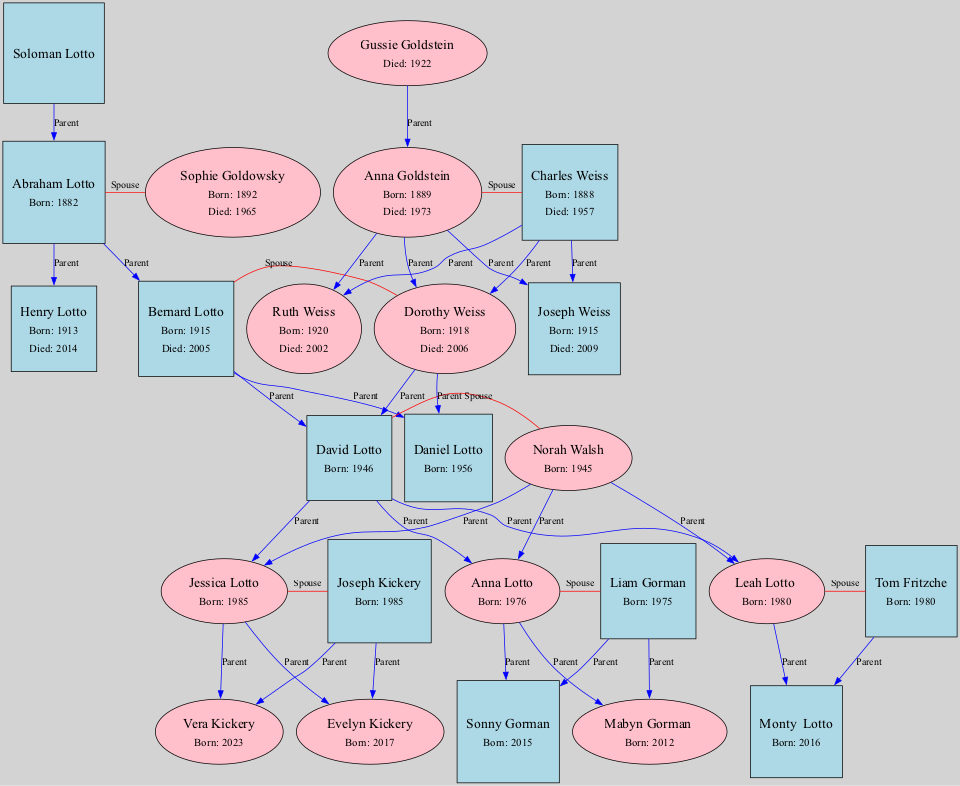
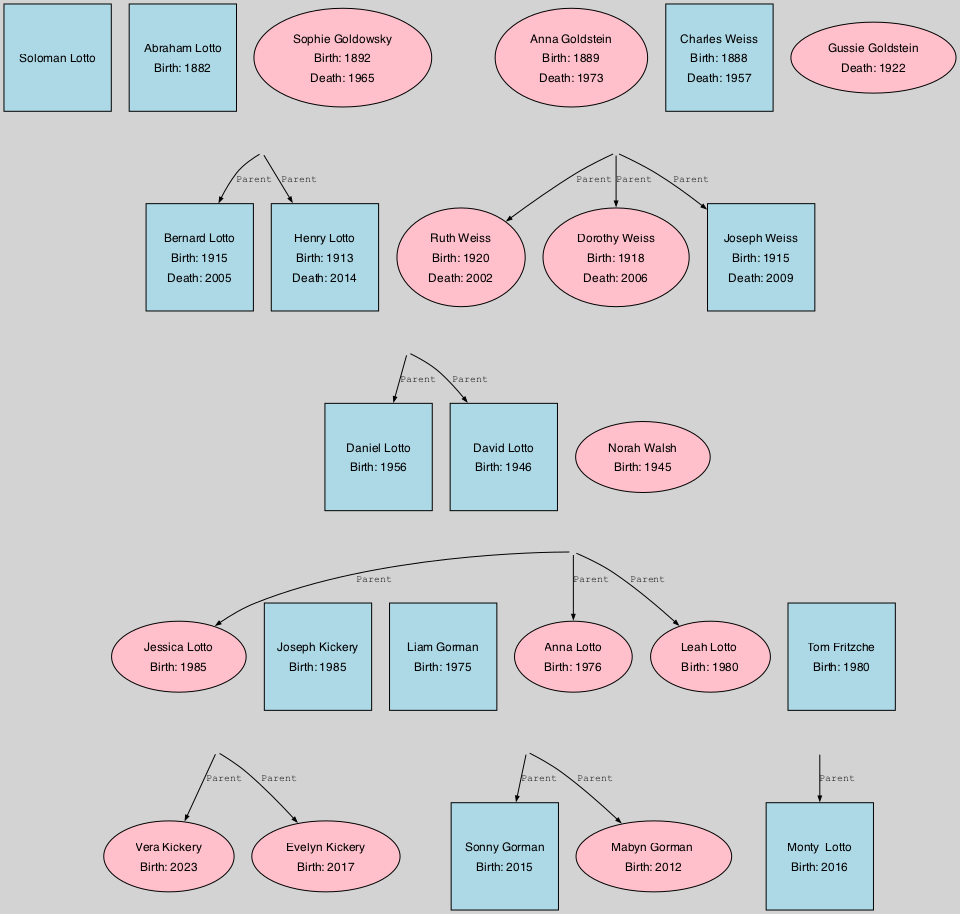
changes to graph output

diff --git a/Union Based Tree/union_tree.py b/Union Based Tree/union_tree.py
@@ -67,16 +67,16 @@ def read_data(filename):
 #         node_shape = 'square' if person.gender == 'M' else 'ellipse'  # Choose shape based on gender
 #         node_color = 'lightblue' if person.gender == 'M' else 'pink'  # Choose color based on gender
 
-#         # Create a label for the node using HTML-like labels
-#         # Adjust the font size for the name to be larger than the dates
-#         node_label = f'<<TABLE BORDER="0" CELLBORDER="0" CELLSPACING="3"><TR><TD><FONT POINT-SIZE="19">{person.name}</FONT></TD></TR>'
-#         if pd.notna(person.birth_date):  # Check if birth date is not null or NaN
-#             # Make the birth date font size smaller
-#             node_label += f'<TR><TD><FONT POINT-SIZE="15">Born: {int(person.birth_date)}</FONT></TD></TR>'  # Smaller font for birth date
-#         if pd.notna(person.death_date):  # Check if death date is not null or NaN
-#             # Make the death date font size smaller
-#             node_label += f'<TR><TD><FONT POINT-SIZE="15">Died: {int(person.death_date)}</FONT></TD></TR>'  # Smaller font for death date
-#         node_label += '</TABLE>>'
+        # # Create a label for the node using HTML-like labels
+        # # Adjust the font size for the name to be larger than the dates
+        # node_label = f'<<TABLE BORDER="0" CELLBORDER="0" CELLSPACING="3"><TR><TD><FONT POINT-SIZE="19">{person.name}</FONT></TD></TR>'
+        # if pd.notna(person.birth_date):  # Check if birth date is not null or NaN
+        #     # Make the birth date font size smaller
+        #     node_label += f'<TR><TD><FONT POINT-SIZE="15">Born: {int(person.birth_date)}</FONT></TD></TR>'  # Smaller font for birth date
+        # if pd.notna(person.death_date):  # Check if death date is not null or NaN
+        #     # Make the death date font size smaller
+        #     node_label += f'<TR><TD><FONT POINT-SIZE="15">Died: {int(person.death_date)}</FONT></TD></TR>'  # Smaller font for death date
+        # node_label += '</TABLE>>'
 
 #         # Create node for each person with custom attributes
 #         dot.node(str(person.id), label=node_label, shape=node_shape, style='filled', fillcolor=node_color)
@@ -93,41 +93,154 @@ def read_data(filename):
 #     dot.render(output_path, view=True)  # Render and save the graph
 #     print(f"Graph rendered and saved to {output_path}.gv and {output_path}.png")
 
+# def create_family_tree_graph(people):
+#     # Create the Graphviz graph
+#     dot = graphviz.Digraph('Family Tree', format='png')
+#     dot.attr(rankdir='TB', size='10,10', newrank='true', bgcolor='lightgray')  # Set attributes for the graph
+
+#     # Define nodes and relationships for each person
+#     for person in people.values():
+#         node_shape = 'square' if person.gender == 'M' else 'ellipse'  # Choose shape based on gender
+#         node_color = 'lightblue' if person.gender == 'M' else 'pink'  # Choose color based on gender
+
+#         # Create a label for the node using HTML-like labels
+#         node_label = f'<<TABLE BORDER="0" CELLBORDER="0" CELLSPACING="3"><TR><TD><FONT POINT-SIZE="19">{person.name}</FONT></TD></TR>'
+#         if pd.notna(person.birth_date):  # Check if birth date is not null or NaN
+#             node_label += f'<TR><TD><FONT POINT-SIZE="15">Born: {int(person.birth_date)}</FONT></TD></TR>'
+#         if pd.notna(person.death_date):  # Check if death date is not null or NaN
+#             node_label += f'<TR><TD><FONT POINT-SIZE="15">Died: {int(person.death_date)}</FONT></TD></TR>'
+#         node_label += '</TABLE>>'
+
+#         # Create node for each person with custom attributes
+#         dot.node(str(person.id), label=node_label, shape=node_shape, style='filled', fillcolor=node_color, width="1.5", height="0.5")
+
+#         # Create edges for parental relationships
+#         for child in person.children:
+#             dot.edge(str(person.id), str(child.id), label='Parent', color='blue')
+
+#         # Handle spousal relationships with rank=same to keep them on the same level
+#         if person.spouse and int(person.id) < int(person.spouse.id):  # To avoid duplicate edges
+#             # This subgraph ensures that spouses appear on the same horizontal level
+#             with dot.subgraph() as s:
+#                 s.attr(rank='same')
+#                 s.edge(str(person.id), str(person.spouse.id), label='Spouse', dir='none', color='red')
+
+#     output_path = 'output/family_tree'
+#     dot.render(output_path, view=True)  # Render and save the graph
+#     print(f"Graph rendered and saved to {output_path}.gv and {output_path}.png")
+
+# def create_family_tree_graph(people):
+#     # Create the Graphviz graph
+#     dot = graphviz.Digraph('Family Tree', format='png')
+#     dot.attr(rankdir='TB', size='10,10', newrank='true', bgcolor='lightgray')  # Set attributes for the graph
+
+#     # Define nodes and relationships for each person
+#     for person in people.values():
+#         node_shape = 'square' if person.gender == 'M' else 'ellipse'  # Choose shape based on gender
+#         node_color = 'lightblue' if person.gender == 'M' else 'pink'  # Choose color based on gender
+
+#         # Create node for each person with custom attributes
+#         dot.node(str(person.id), label=person.name, shape=node_shape, style='filled', fillcolor=node_color, width="1.5", height="0.5")
+
+#         # Invisible nodes for couples to connect spouse and children
+#         if person.spouse and int(person.id) < int(person.spouse.id):  # Ensure each couple is processed only once
+#             couple_id = f"couple_{person.id}_{person.spouse.id}"
+#             dot.node(couple_id, style="invis", width=".1", height=".1")  # Invisible node
+#             dot.edge(str(person.id), couple_id, style="invis")  # Invisible edge to the couple node
+#             dot.edge(str(person.spouse.id), couple_id, style="invis")  # Invisible edge to the couple node
+
+#             # Connecting children to the couple node
+#             for child in person.children:
+#                 dot.edge(couple_id, str(child.id), label='Parent')  # Visible edge from couple to child
+
+#     output_path = 'output/family_tree'
+#     dot.render(output_path, view=True)  # Render and save the graph
+#     print(f"Graph rendered and saved to {output_path}.gv and {output_path}.png")
+
+
+# def create_family_tree_graph(people):
+#     # Create the Graphviz graph
+#     dot = graphviz.Digraph('Family Tree', format='png')
+#     dot.attr(rankdir='TB', size='10,10', newrank='true', bgcolor='lightgray')  # Set attributes for the graph
+
+#     # Additional graph styling
+#     dot.attr('node', style='filled', fontname='Helvetica', fontsize='12', width=".1", height=".1")
+#     dot.attr('edge', fontname='Courier', fontsize='10', arrowsize='0.5')
+
+#     # Define nodes and relationships for each person
+#     for person in people.values():
+#         node_shape = 'square' if person.gender == 'M' else 'ellipse'  # Choose shape based on gender
+#         node_color = 'lightblue' if person.gender == 'M' else 'pink'  # Choose color based on gender
+
+#         # Create node for each person with custom attributes
+#         dot.node(str(person.id), label=person.name, shape=node_shape, color=node_color)
+
+#         # Invisible nodes for couples to connect spouse and children
+#         if person.spouse and int(person.id) < int(person.spouse.id):  # Ensure each couple is processed only once
+#             couple_id = f"couple_{person.id}_{person.spouse.id}"
+#             dot.node(couple_id, label='', shape='point', width='0.01', height='0.01', style='invis')  # Extremely small invisible node
+
+#             # Invisible edges to the couple node
+#             dot.edge(str(person.id), couple_id, style="invis")
+#             dot.edge(str(person.spouse.id), couple_id, style="invis")
+
+#             # Connecting children to the couple node with visible edges
+#             for child in person.children:
+#                 dot.edge(couple_id, str(child.id), style='solid', label='Parent')
+
+#     output_path = 'output/family_tree'
+#     dot.render(output_path, view=True)  # Render and save the graph
+#     print(f"Graph rendered and saved to {output_path}.gv and {output_path}.png")
+
+
 def create_family_tree_graph(people):
     # Create the Graphviz graph
     dot = graphviz.Digraph('Family Tree', format='png')
-    dot.attr(rankdir='TB', size='10,10', newrank='true', bgcolor='lightgray')  # Set attributes for the graph
+    dot.attr(rankdir='TB', size='10,10', newrank='true', bgcolor='lightgray')
+    dot.attr('node', style='filled', fontname='Helvetica', fontsize='12')
+    dot.attr('edge', fontname='Courier', fontsize='10', arrowsize='0.5')
 
     # Define nodes and relationships for each person
     for person in people.values():
-        node_shape = 'square' if person.gender == 'M' else 'ellipse'  # Choose shape based on gender
-        node_color = 'lightblue' if person.gender == 'M' else 'pink'  # Choose color based on gender
+        # Apply gender-specific node shapes and colors
+        node_shape = 'square' if person.gender == 'M' else 'ellipse'
+        node_color = 'lightblue' if person.gender == 'M' else 'pink'
 
-        # Create a label for the node using HTML-like labels
-        node_label = f'<<TABLE BORDER="0" CELLBORDER="0" CELLSPACING="3"><TR><TD><FONT POINT-SIZE="19">{person.name}</FONT></TD></TR>'
-        if pd.notna(person.birth_date):  # Check if birth date is not null or NaN
-            node_label += f'<TR><TD><FONT POINT-SIZE="15">Born: {int(person.birth_date)}</FONT></TD></TR>'
-        if pd.notna(person.death_date):  # Check if death date is not null or NaN
-            node_label += f'<TR><TD><FONT POINT-SIZE="15">Died: {int(person.death_date)}</FONT></TD></TR>'
-        node_label += '</TABLE>>'
+        # Node label with birth and death dates formatted using HTML-like labels
+        node_label = f"<<TABLE BORDER='0' CELLBORDER='0' CELLSPACING='3'><TR><TD>{person.name}</TD></TR>"
+        if pd.notna(person.birth_date):
+            node_label += f"<TR><TD>Birth: {int(person.birth_date)}</TD></TR>"
+        if pd.notna(person.death_date):
+            node_label += f"<TR><TD>Death: {int(person.death_date)}</TD></TR>"
+        node_label += "</TABLE>>"
 
         # Create node for each person with custom attributes
-        dot.node(str(person.id), label=node_label, shape=node_shape, style='filled', fillcolor=node_color, width="1.5", height="0.5")
+        dot.node(str(person.id), label=node_label, shape=node_shape, color='black', fillcolor=node_color, width="1.5", height="0.5")
 
-        # Create edges for parental relationships
-        for child in person.children:
-            dot.edge(str(person.id), str(child.id), label='Parent', color='blue')
+        # Handling spousal and child relationships with more clarity
+        if person.spouse and int(person.id) < int(person.spouse.id):
+            # Invisible node for couple connection
+            couple_id = f"couple_{person.id}_{person.spouse.id}"
+            dot.node(couple_id, label='', shape='point', style='invis', width='0.1', height='0.1')
 
-        # Handle spousal relationships with rank=same to keep them on the same level
-        if person.spouse and int(person.id) < int(person.spouse.id):  # To avoid duplicate edges
-            # This subgraph ensures that spouses appear on the same horizontal level
-            with dot.subgraph() as s:
-                s.attr(rank='same')
-                s.edge(str(person.id), str(person.spouse.id), label='Spouse', dir='none', color='red')
+            # Connect spouses to the invisible node
+            dot.edge(str(person.id), couple_id, style="invis")
+            dot.edge(str(person.spouse.id), couple_id, style="invis")
+
+            # Connecting children to the invisible node with visible edges
+            for child in person.children:
+                dot.edge(couple_id, str(child.id), label='Parent', style='solid')
 
     output_path = 'output/family_tree'
-    dot.render(output_path, view=True)  # Render and save the graph
+    dot.render(output_path, view=True)
     print(f"Graph rendered and saved to {output_path}.gv and {output_path}.png")
+
+# Example of how to run this function (assuming read_data is defined correctly and called here).
+# people = read_data('your_data_file.csv')
+# create_family_tree_graph(people)
+
+
+# This is a placeholder for where your `read_data` function and `main` logic would go.
 
 
 def main():
